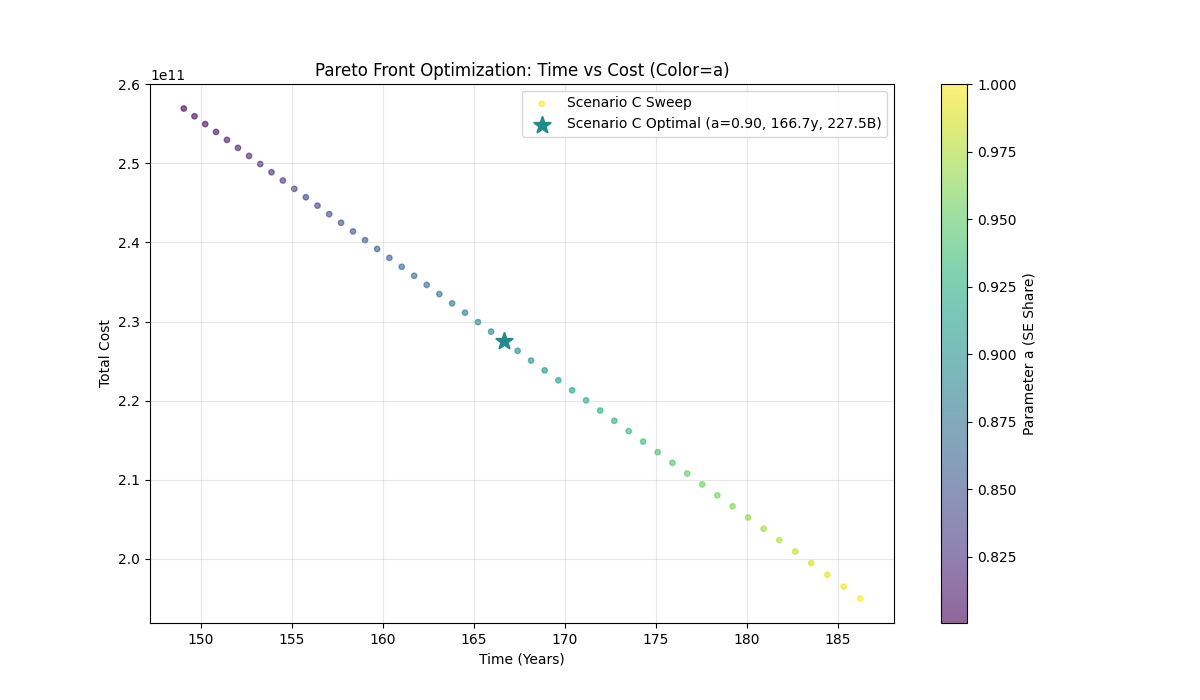
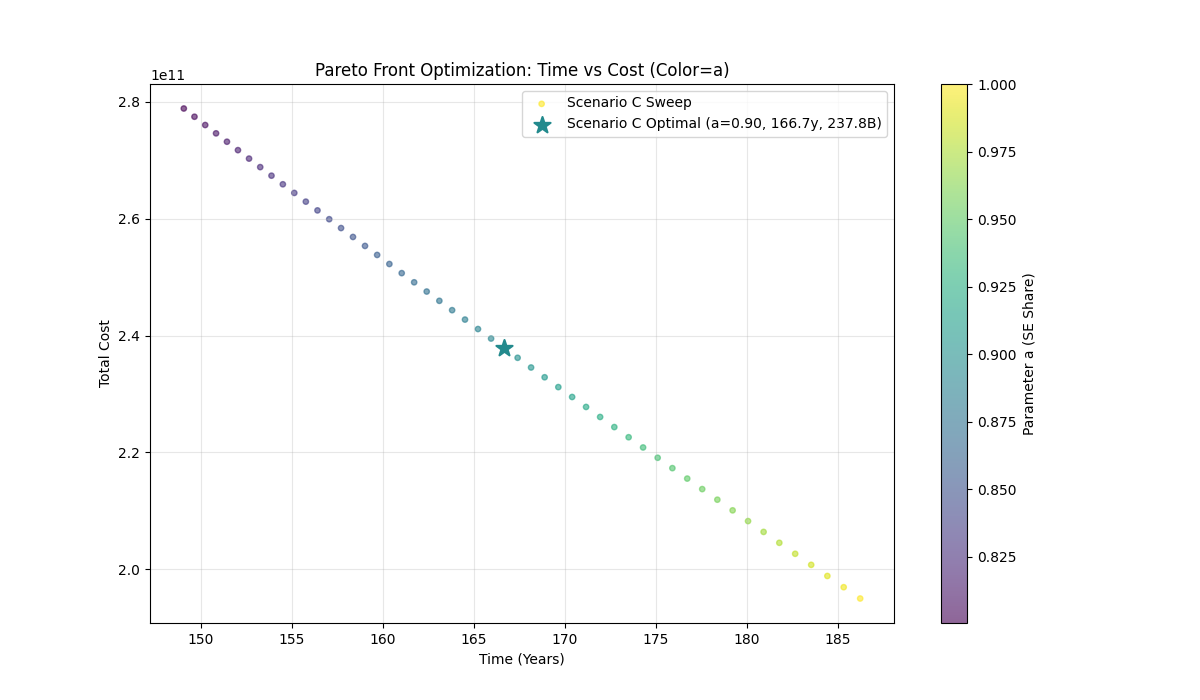
more q1

diff --git a/Q1/Q1.py b/Q1/Q1.py
@@ -14,11 +14,6 @@ from load_data import load_data
 df_launch, _, _ = load_data()
 
 def model_for_launch(df_launch):
-    # Extract Year
-    # working on Date
-    df_launch['Date'] = pd.to_datetime(df_launch['Date'], utc=True, errors='coerce')
-    df_launch['Year'] = df_launch['Date'].dt.year
-
     # 10 Launch Locations
     target_keywords = [
         'Alaska', 'CA', 'TX', 'FL', 'Virginia',  # USA States
@@ -147,12 +142,75 @@ def predict_2050_fgi(model, annual_launches):
     plt.ylabel('Number of Launches')
     plt.legend()
     plt.grid(True, alpha=0.3)
+    plt.savefig('launch_times.png')
     plt.show()
     print(f"Predicted FGI is {round(int(fgi[0]/10))}")
     return round(int(fgi[0]/10))
 
 model, annual_launches = model_for_launch(df_launch)
 FGI = predict_2050_fgi(model, annual_launches)
+
+def model_for_price(df_launch):
+    # Filter out entries with missing Price
+    df_price = df_launch.dropna(subset=['Price']).copy()
+
+    # Clean Price column: remove '$' and ',' and convert to float
+    df_price['Price'] = df_price['Price'].astype(str).str.replace(r'[$,]', '', regex=True)
+    df_price['Price'] = pd.to_numeric(df_price['Price'], errors='coerce')
+
+    # Drop rows where price conversion failed
+    df_price = df_price.dropna(subset=['Price'])
+
+    # Calculate average price per year
+    annual_avg_price = df_price.groupby('Year')['Price'].mean().reset_index()
+
+    # Log transform
+    annual_avg_price['Log Price'] = np.log(annual_avg_price['Price'])
+    
+    X = annual_avg_price['Year'].values.reshape(-1, 1)
+    y = annual_avg_price['Log Price'].values
+
+    # Train Regression Model (Linear on Log Price)
+    model = LinearRegression()
+    model.fit(X, y)
+
+    return model, annual_avg_price
+
+def predict_price_2050(model, annual_avg_price):
+    year_2050 = np.array([[2050]])
+    log_price_2050 = model.predict(year_2050)
+    price_2050 = np.exp(log_price_2050)[0]
+    print(f"Predicted Average Launch Price (2050): ${price_2050:,.2f}")
+
+    # Visualization (Plotting on Original Price Scale)
+    plt.figure(figsize=(10, 6))
+    
+    # Plot historical data (Price)
+    sns.scatterplot(data=annual_avg_price, x='Year', y='Price', label='Historical Data', color='blue')
+
+    # Plot trend line (Exp of Linear Log Prediction)
+    year_range = np.arange(annual_avg_price['Year'].min(), 2051).reshape(-1, 1)
+    log_pred_line = model.predict(year_range)
+    y_pred_line = np.exp(log_pred_line)
+
+    plt.plot(year_range, y_pred_line, color='green', linestyle='--', linewidth=1, label='Trend Prediction')
+    
+    # Plot 2050 prediction
+    plt.scatter(2050, price_2050, color='green', s=50, zorder=5,
+                label=f'2050 Prediction: ${price_2050:,.2f}')
+
+    plt.title('Average Launch Price Trend')
+    plt.xlabel('Year')
+    plt.ylabel('Average Price ($)')
+    plt.legend()
+    plt.grid(True, alpha=0.3)
+    plt.savefig('launch_price.png')
+    plt.show()
+
+    return price_2050
+    
+price_model, annual_avg_price = model_for_price(df_launch)
+price_2050 = predict_price_2050(price_model, annual_avg_price)
 
 # --- 1. Parameters & Variables ---
 M = 1e8  # 100 million tons
@@ -162,15 +220,15 @@ MI = 125       # Payload per annual launch slot (Tons)
 FGMAX_VAL = FGI    # Max annual launches per site
 
 # Costs & Reliability
-C_RB = 1e6     # Fixed Cost per annual launch slot
-C_RM = 5000    # Variable Cost per ton
+C_RB = price_2050     # Fixed Cost per annual launch slot (Predicted 2050 price)
+C_RM = 5000    # Variable Cost per ton (Assumed cargo integration cost)
 eta = 1        # Success rate (assumed 1 for deterministic model)
 
 # Space Elevator (Scenario A)
 NUM_SE_PORTS = 3
 Qeu = 179000   # Earth-Apex throughput (Tons/year)
 Qed = 200000   # Apex-Moon throughput
-Ce = 1000        # Unit Cost (per Ton)
+Ce = 1000        # Unit Cost (per Ton) - Reasonable estimate for mature SE
 
 b_factor = 0.05 # Fuel/Spares percentage
 
@@ -365,4 +423,5 @@ plt.xlabel('Time (Years)')
 plt.ylabel('Total Cost')
 plt.legend()
 plt.grid(True, alpha=0.3)
+plt.savefig('pareto.png')
 plt.show()

diff --git a/Q1/load_data.py b/Q1/load_data.py
@@ -53,7 +53,9 @@ def load_data():
     })
 
     # launch data from 1992 to 2025
-    df_launch = df_launch[pd.to_datetime(df_launch['Date']).dt.year < 2026]
+    df_launch['Date'] = pd.to_datetime(df_launch['Date'], utc=True, errors='coerce')
+    df_launch['Year'] = df_launch['Date'].dt.year
+    df_launch = df_launch[df_launch['Year'] < 2026]
 
     return df_launch, df_water_per_cap, df_co2
 
